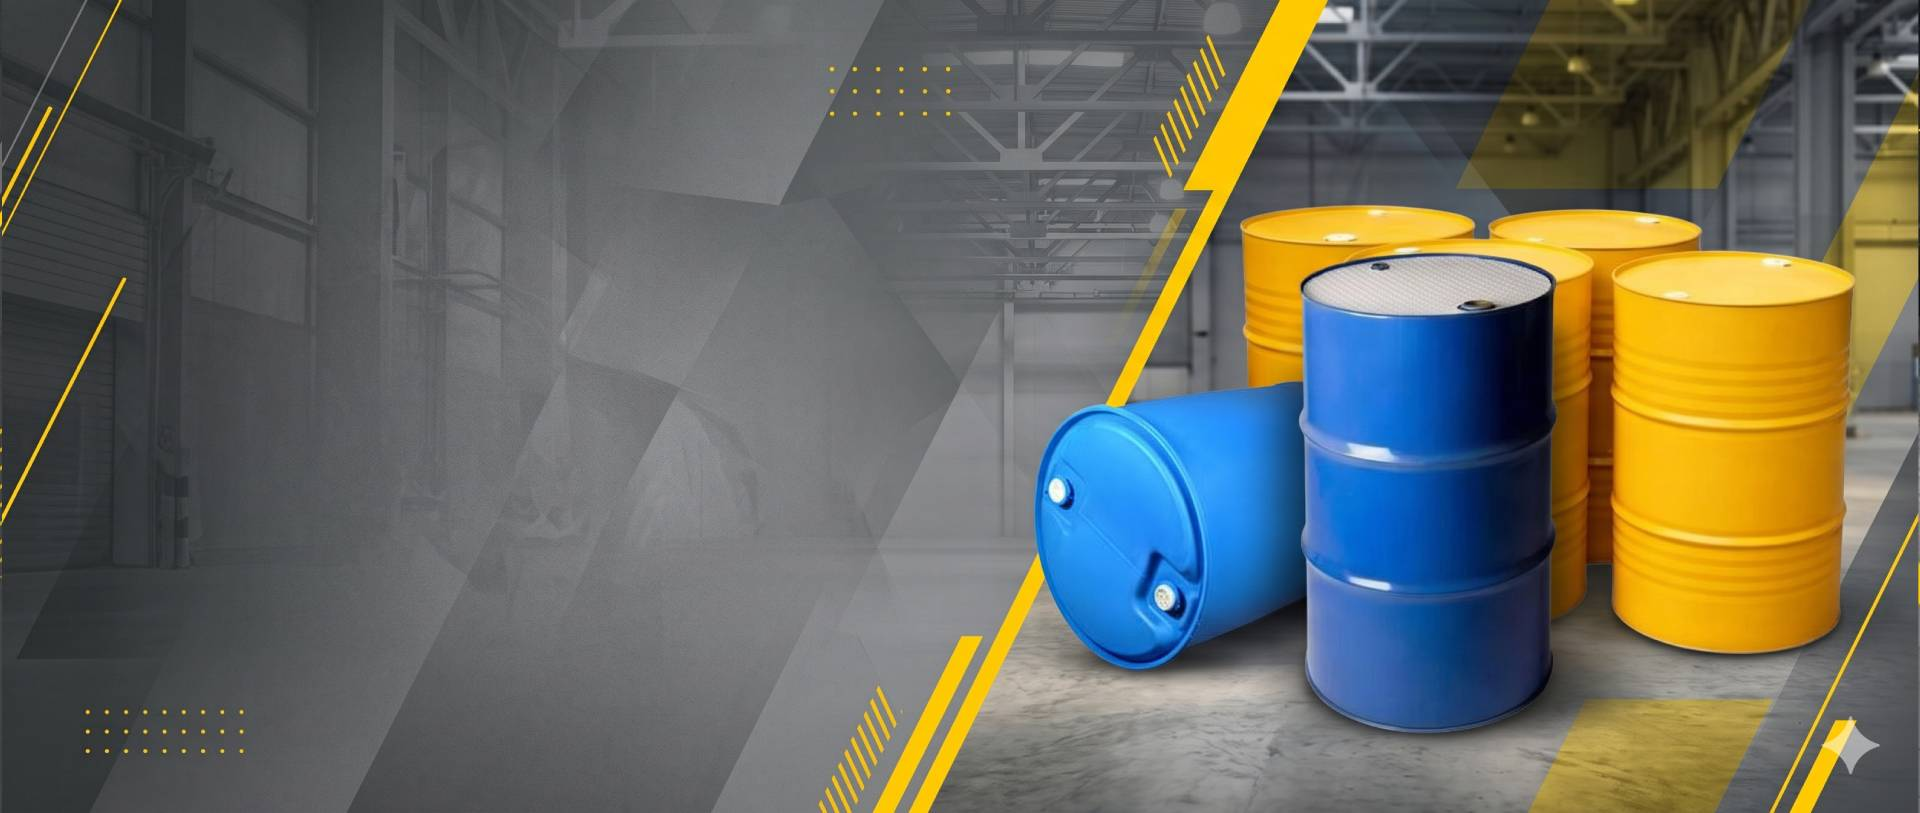
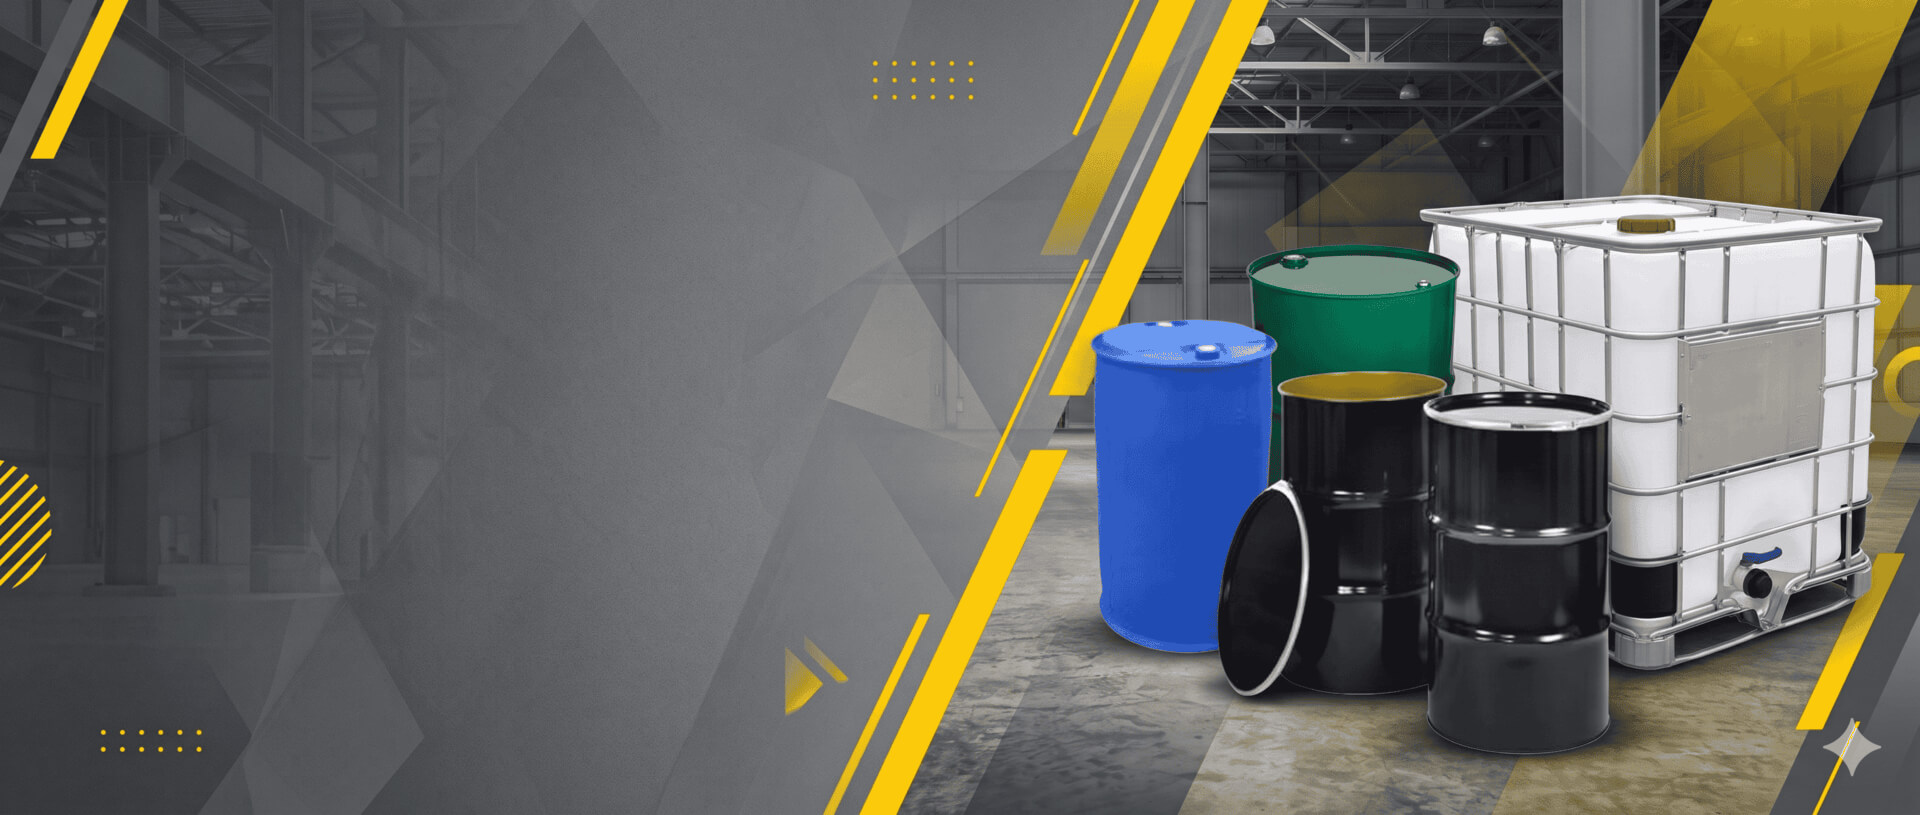
wip

diff --git a/index.html b/index.html
@@ -402,11 +402,11 @@
               <p class="small text-secondary mb-3">
                 Tight-head barrel with triple-seamed chimb, 2" & 3/4" zinc bungs, tested for high-vapor-pressure solvents.
               </p>
-              <ul class="product-spec-list">
+              <!-- <ul class="product-spec-list">
                 <li><i class="fa-solid fa-circle-check"></i> 100% Submersion Air Leak Tested</li>
                 <li><i class="fa-solid fa-circle-check"></i> Standard Tare: 16.5 kg – 18.5 kg</li>
                 <li><i class="fa-solid fa-circle-check"></i> Ideal for Solvents, Fuels & Lubes</li>
-              </ul>
+              </ul> -->
               <div class="mt-auto">
                 <a href="contact.html?product=cmp#rfq" class="btn btn-besto-orange w-100 fw-bold">
                   Inquire Now
@@ -429,11 +429,11 @@
               <p class="small text-secondary mb-3">
                 High-bake epoxy-phenolic internal lacquer lining resisting chemical corrosion from resins and cable jelly.
               </p>
-              <ul class="product-spec-list">
+              <!-- <ul class="product-spec-list">
                 <li><i class="fa-solid fa-circle-check"></i> Oven-Cured Internal Lacquer</li>
                 <li><i class="fa-solid fa-circle-check"></i> Heavy-Duty Galvanized Clamp Ring</li>
                 <li><i class="fa-solid fa-circle-check"></i> Ideal for Cable Jelly, Resins, Inks</li>
-              </ul>
+              </ul> -->
               <div class="mt-auto">
                 <a href="contact.html?product=otec#rfq" class="btn btn-besto-orange w-100 fw-bold">
                   Inquire Now
@@ -456,11 +456,11 @@
               <p class="small text-secondary mb-3">
                 Full removable lid with sponge EPDM rubber gasket, lever clamp locking mechanism, and plain de-scaled interior.
               </p>
-              <ul class="product-spec-list">
+              <!-- <ul class="product-spec-list">
                 <li><i class="fa-solid fa-circle-check"></i> Removable Full Lid & EPDM Gasket</li>
                 <li><i class="fa-solid fa-circle-check"></i> Tare Weight: 18.0 kg – 20.0 kg</li>
                 <li><i class="fa-solid fa-circle-check"></i> Ideal for Greases, Pastes, Granules</li>
-              </ul>
+              </ul> -->
               <div class="mt-auto">
                 <a href="contact.html?product=otp#rfq" class="btn btn-besto-orange w-100 fw-bold">
                   Inquire Now
@@ -483,11 +483,11 @@
               <p class="small text-secondary mb-3">
                 Hot-dip electro-galvanized zinc coated body guaranteeing rust-free containment for essential oils.
               </p>
-              <ul class="product-spec-list">
+              <!-- <ul class="product-spec-list">
                 <li><i class="fa-solid fa-circle-check"></i> Zinc Mass Coated Inner & Outer</li>
                 <li><i class="fa-solid fa-circle-check"></i> Zero Contamination Guarantee</li>
                 <li><i class="fa-solid fa-circle-check"></i> Peppermint Oil, Menthol, Aromas</li>
-              </ul>
+              </ul> -->
               <div class="mt-auto">
                 <a href="contact.html?product=gicm#rfq" class="btn btn-besto-orange w-100 fw-bold">
                   Inquire Now
@@ -510,11 +510,11 @@
               <p class="small text-secondary mb-3">
                 High Molecular Weight HDPE drums with extreme stress crack resistance, inert to acids, alkalis and caustic liquids.
               </p>
-              <ul class="product-spec-list">
+              <!-- <ul class="product-spec-list">
                 <li><i class="fa-solid fa-circle-check"></i> UV-Stabilized Virgin Grade HM-HDPE</li>
                 <li><i class="fa-solid fa-circle-check"></i> Tare: 7.8 kg to 8.5 kg Heavy-Duty</li>
                 <li><i class="fa-solid fa-circle-check"></i> Acids, Caustics, Agrochemicals</li>
-              </ul>
+              </ul> -->
               <div class="mt-auto">
                 <a href="contact.html?product=hdpec#rfq" class="btn btn-besto-orange w-100 fw-bold">
                   Inquire Now
@@ -537,11 +537,11 @@
               <p class="small text-secondary mb-3">
                 Galvanized tubular steel grid cage, composite 4-way pallet, and DN50 integrated discharge valve.
               </p>
-              <ul class="product-spec-list">
+              <!-- <ul class="product-spec-list">
                 <li><i class="fa-solid fa-circle-check"></i> Standard 20-Unit Fit per 20ft Box</li>
                 <li><i class="fa-solid fa-circle-check"></i> Integrated Camlock / Butterfly Valve</li>
                 <li><i class="fa-solid fa-circle-check"></i> Export Liquids, Solvents, Bulk API</li>
-              </ul>
+              </ul> -->
               <div class="mt-auto">
                 <a href="contact.html?product=ibc_max#rfq" class="btn btn-besto-orange w-100 fw-bold">
                   Inquire Now

diff --git a/css/main.css b/css/main.css
@@ -159,9 +159,12 @@ h1, h2, h3, h4, h5, .brand-font {
 }
 
 /* Page Header Breadcrumb Banner (Inner Pages) */
+.about-header-banner{
+  background: url('../images/about-banner.png') no-repeat left center; 
+}
 .page-header-banner {
-  background: linear-gradient(135deg, rgba(18, 18, 18, 0.95) 0%, rgba(30, 32, 34, 0.92) 100%),
-              url('https://images.unsplash.com/photo-1587293852726-70cdb56c2866?auto=format&fit=crop&w=1920&q=80') center center / cover no-repeat;
+  background: linear-gradient(135deg, rgba(18, 18, 18, 0.6) 0%, rgba(30, 32, 34, 0.4) 100%),
+              url('../images/about-banner.png') left center / cover no-repeat;
   padding: 70px 0;
   color: #ffffff;
   border-bottom: 4px solid var(--besto-orange);

diff --git a/css/custom.css b/css/custom.css
@@ -480,6 +480,8 @@
   box-shadow: 0 0 0 0.25rem rgba(245, 130, 32, 0.25);
 }
 
+
+
 /* --------------------------------------------------------------------------
    7. Responsive Breakpoint Overrides
    -------------------------------------------------------------------------- */

diff --git a/about.html b/about.html
@@ -127,7 +127,7 @@
   </nav>
 
   <!-- BREADCRUMB HEADER BANNER -->
-  <header class="page-header-banner">
+  <header class="page-header-banner about-header-banner">
     <div class="container">
       <nav aria-label="breadcrumb">
         <ol class="breadcrumb mb-2">
